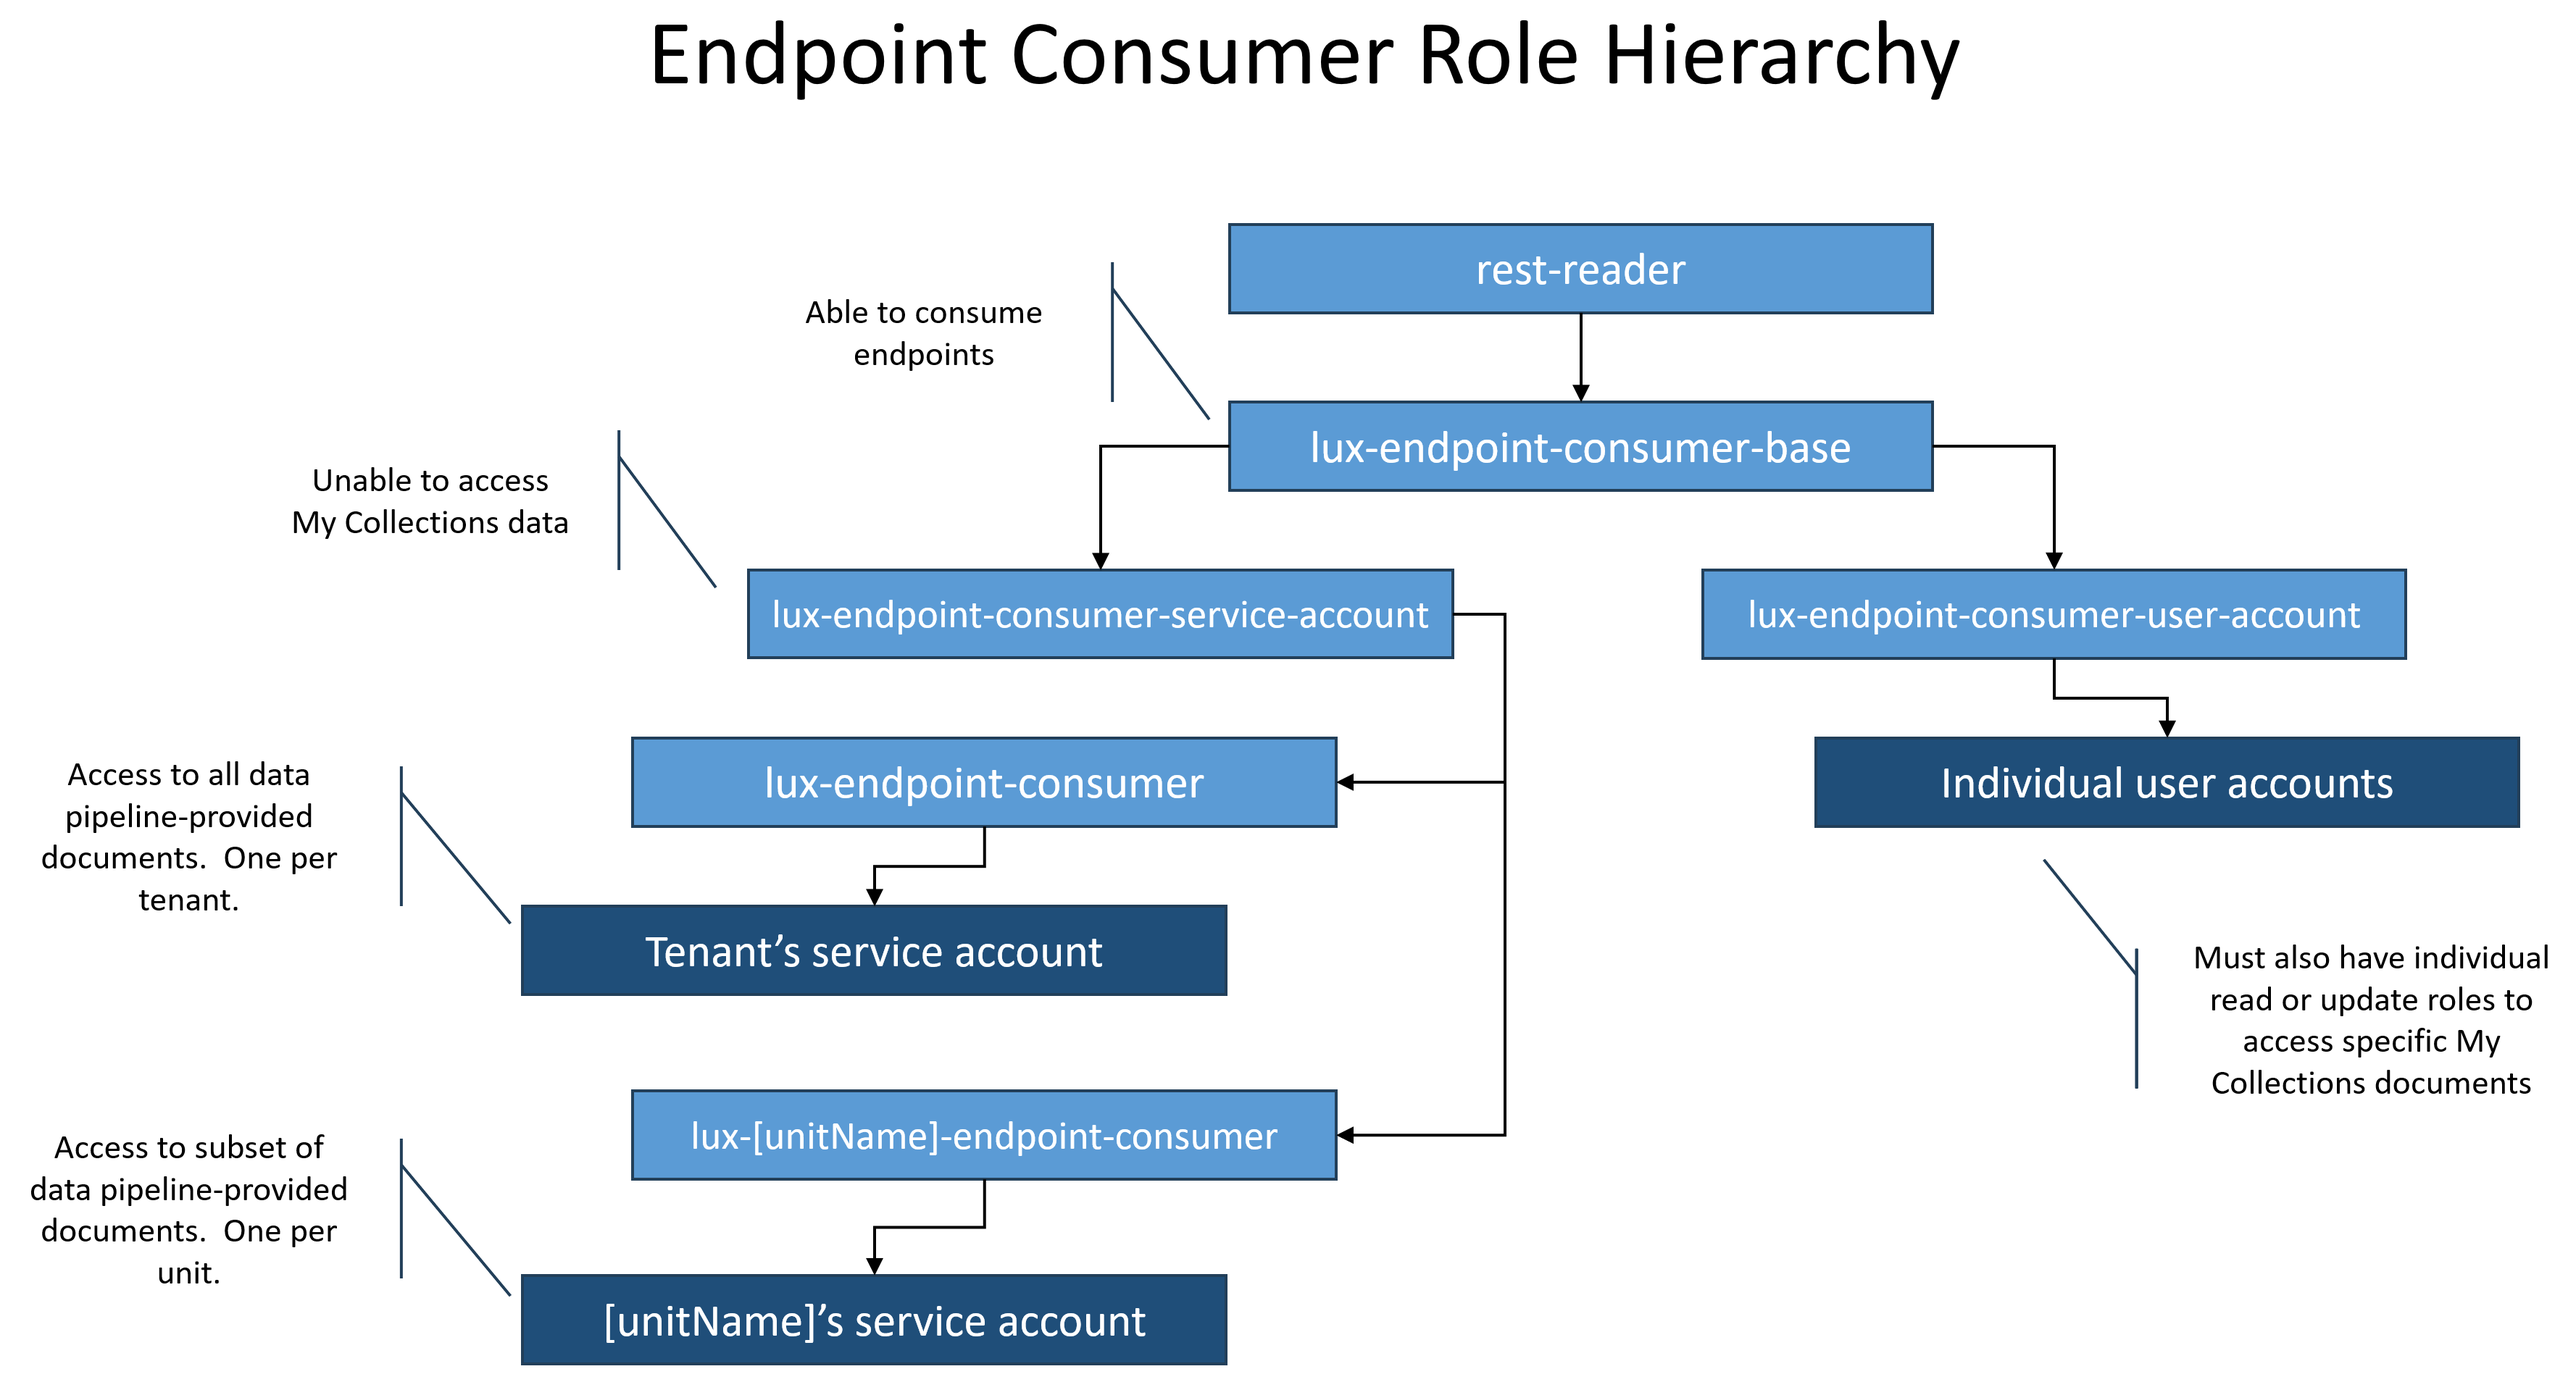
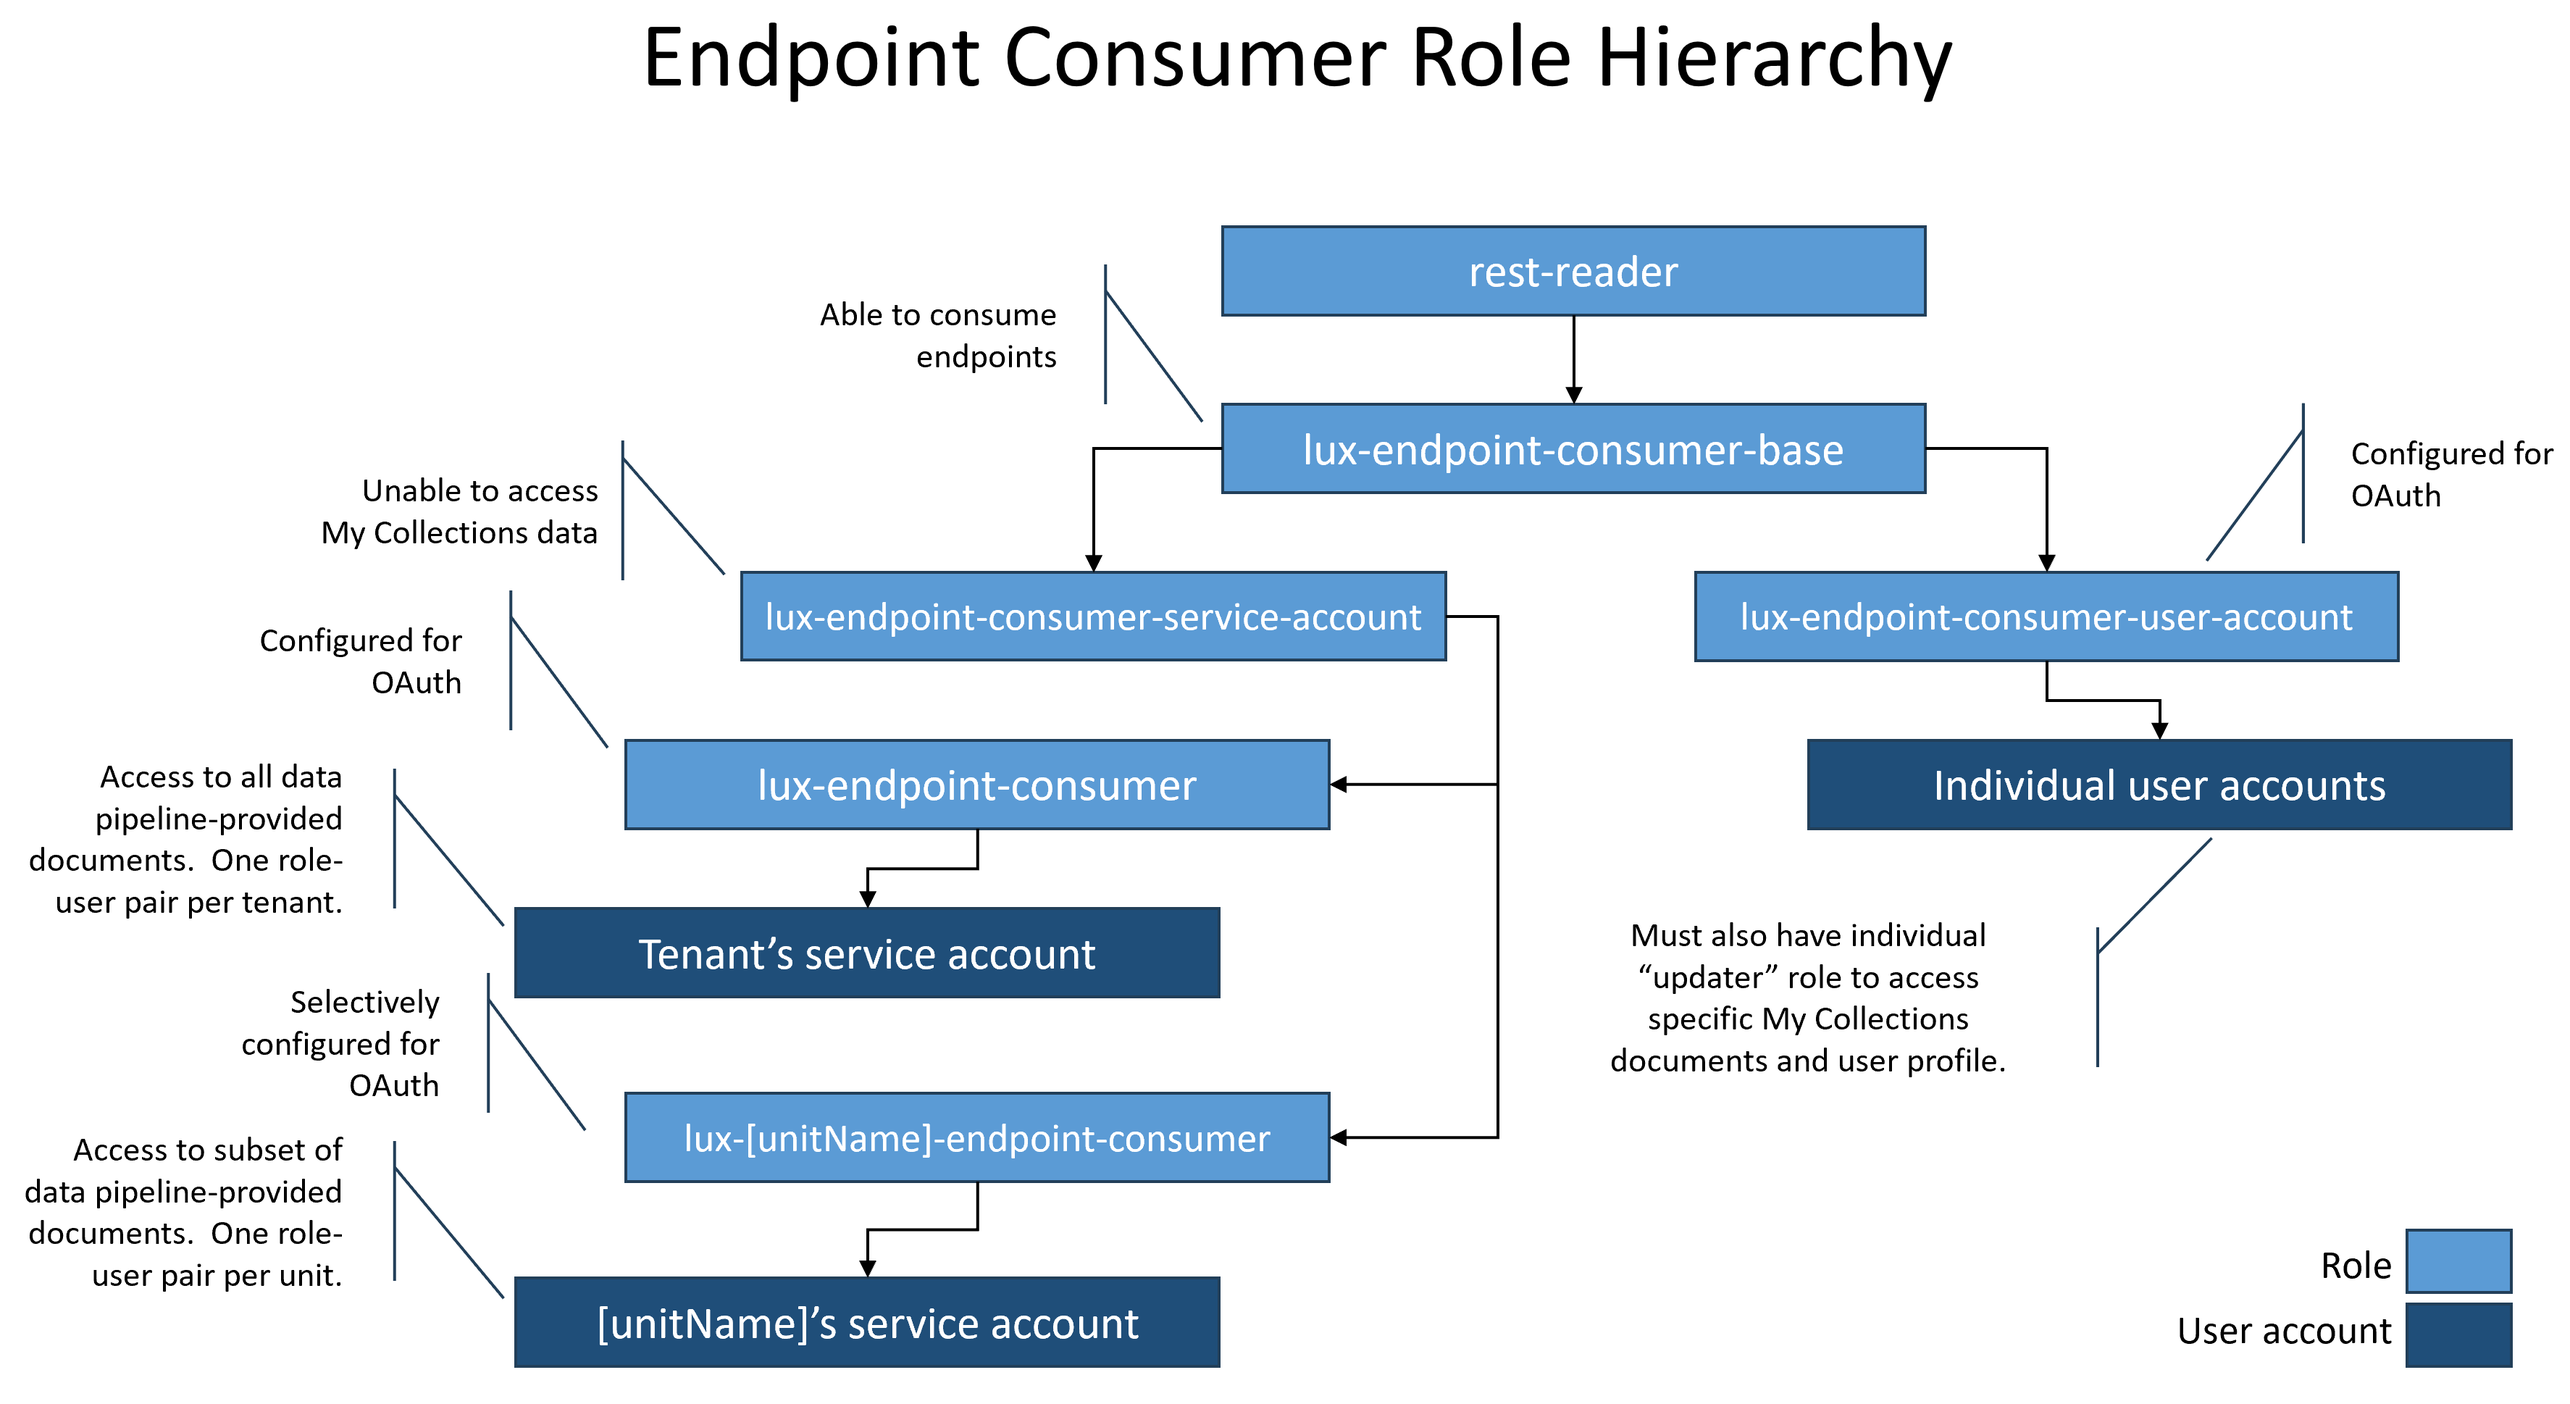
Auth&Auth-related documentation edits

diff --git a/docs/lux-backend-security-and-software.md b/docs/lux-backend-security-and-software.md
@@ -93,31 +93,37 @@ Reader role naming conventions for units, where `[alpha]` is the next available 
 
 ![Endpoint consumer role hierarchy](/docs/img/endpoint-consumer-role-hierarchy.png)
 
-The `%%mlAppName%%-endpoint-consumer-base` role ([2-endpoint-consumer-base-role.json](/src/main/ml-config/base/security/roles/2-endpoint-consumer-base-role.json)) grants the roles and execute privileges required to consume the endpoints, less those provided by [amps](#amps).
+The [%%mlAppName%%-endpoint-consumer-base](/src/main/ml-config/base/security/roles/2-endpoint-consumer-base-role.json) role grants the roles and execute privileges required to consume the endpoints, less those provided by [amps](#amps).
 
-There are two roles that directly inherit the base role to differentiate the two types of endpoint consumers:
+There are two roles that directly inherit the base role, which serve to differentiate two types of endpoint consumers:
 
-1. The `%%mlAppName%%-endpoint-consumer-user` role ([2a-endpoint-consumer-user-role.json](/src/main/ml-config/base/security/roles/2a-endpoint-consumer-user-role.json)) is to be granted to My Collections user accounts.
-2. The `%%mlAppName%%-endpoint-consumer-service-account` role ([2b-endpoint-consumer-service-account-role.json](/src/main/ml-config/base/security/roles/2b-endpoint-consumer-service-account-role.json)) is to be granted to service accounts.
+1. The [%%mlAppName%%-endpoint-consumer-user](/src/main/ml-config/base/security/roles/2a-endpoint-consumer-user-role.json) role is to be granted to My Collections *user* accounts.
+2. The [%%mlAppName%%-endpoint-consumer-service-account](/src/main/ml-config/base/security/roles/2b-endpoint-consumer-service-account-role.json) role is to be granted to *service* accounts.
 
-Primary distinctions between the endpoint consumer types:
+Primary distinctions between user and service accounts:
 
 1. Document permissions:
-    * User accounts only have access to My Collections documents. The subset thereof varies by user account.  For example, User 1 and User 2 may share access to My Fossils Collection yet User 1 may also have access to the My Paintings Collection.
+    * User accounts only have access to My Collections documents. The subset thereof varies by user account.  For example and once sharing is supported, User 1 and User 2 may share access to My Fossils Collection yet User 1 may also have access to the My Paintings Collection.
     * Service accounts only have access to documents provided by the [data pipeline](https://github.com/project-lux/data-pipeline).  The subset thereof varies by service account, or unit.  For example, the Yale Peabody Museum and Yale University Art Gallery may share the concept of fossils yet the Yale Peabody Museum service account will have access to many more fossil documents than Yale University Art Gallery's service account.
 2. Requests from a user account can have access to the same configuration and (data pipeline-provided) documents as a service account (using the `unitName` endpoint parameter), but service accounts cannot have access to a user account's documents.  Combining the two previous examples, if the same User 1 logged into LUX through Yale Peabody Museum's portal, the user would have access to their My Collection documents *and* Yale Peabody Museum's fossil documents.  Users that access LUX through Yale Peabody Museum's portal without logging in would only be able to see Yale Peabody Museum's documents.  The [backend endpoint API documentation](/docs/lux-backend-api-usage.md) identifies which endpoints accept the `unitName` parameter.
 3. Service accounts are not allowed to consume My Collection endpoints.
 
-Each tenant and unit is to have a dedicated a) service account, b) endpoint consumer role, and c) [reader role](#reader).\*  The dedicated endpoint consumer role is to inherit the base endpoint consumer role.  The tenant's endpoint consumer role is defined by [2c-tenant-endpoint-consumer-role.json](/src/main/ml-config/base/security/roles/2c-tenant-endpoint-consumer-role.json) and serves as an example.  
+Each tenant and unit is to have a dedicated a) service account, b) endpoint consumer role, and c) [reader role](#reader).\*  Dedicated endpoint consumer service account roles are to inherit [%%mlAppName%%-endpoint-consumer-service-account](/src/main/ml-config/base/security/roles/2b-endpoint-consumer-service-account-role.json).  The tenant's endpoint consumer role is defined by [%%mlAppName%%-endpoint-consumer](/src/main/ml-config/base/security/roles/2c-tenant-endpoint-consumer-role.json) and serves as an example.  
 
-Unit endpoint consumer roles may also be configured within [/src/main/ml-config/base/security/roles](/src/main/ml-config/base/security/roles/). Endpoint consumer role naming conventions for units, where `[alpha]` and `[unit]` match that of the reader role:
+Unit endpoint consumer roles may also be configured within [/src/main/ml-config/base/security/roles](/src/main/ml-config/base/security/roles/). Endpoint consumer naming conventions for units, where `[alpha]` and `[unit]` match that of the reader role:
 
 * File names: `2[alpha]-[unit]-endpoint-consumer-role.json`
 * Role names: `%%mlAppName%%-[unit]-endpoint-consumer`
 
-For internal security environments, the project offers tenant and unit endpoint consumer service accounts.  These are configured within [/src/main/ml-config/base-unsecured/security/users](/src/main/ml-config/base-unsecured/security/users).  To deploy, set the `endpointConsumerPassword` in the properties file (It is not an encrypted password.), add [/src/main/ml-config/base-unsecured](/src/main/ml-config/base-unsecured) to the `mlConfigPaths` property value, and run the `mlDeployUsers` task or a higher one.  
+A subset of roles is configured with external group names, in support of OAuth:
 
-Developers are encouraged to test endpoints using an account that has one of these roles.
+* [%%mlAppName%%-endpoint-consumer-user](/src/main/ml-config/base/security/roles/2a-endpoint-consumer-user-role.json) is configured to the "user" group, thereby allowing any authenticated My Collections user to consume endpoints.
+* The tenant owner, [%%mlAppName%%-endpoint-consumer](/src/main/ml-config/base/security/roles/2c-tenant-endpoint-consumer-role.json), is configured to the "my-collections-service" group.
+* Units with unit portals also have their endpoint consumer service account role configured to the "my-collections-service" group.  This includes [%%mlAppName%%-ypm-endpoint-consumer](/src/main/ml-config/base/security/roles/2d-ypm-endpoint-consumer-role.json).
+
+Intended for local developer environments, the project offers tenant and unit endpoint consumer service accounts.  These are configured within [/src/main/ml-config/base-unsecured/security/users](/src/main/ml-config/base-unsecured/security/users).  To deploy, set the `endpointConsumerPassword` in the properties file (It is not an encrypted password.), add [/src/main/ml-config/base-unsecured](/src/main/ml-config/base-unsecured) to the `mlConfigPaths` property value, and run the `mlDeployUsers` task or a higher one.  
+
+Developers are encouraged to test endpoints using endpoint consumer user accounts and endpoint consumer service accounts.
 
 \* See the [Applicable Configuration](#applicable-configuration) section for an additional requirement to provide a unit a service account.
 
@@ -133,7 +139,7 @@ The [%%mlAppName%%-writer](/src/main/ml-config/base/security/roles/4-tenant-writ
 
 The [%%mlAppName%%-deployer](/src/main/ml-config/base/security/roles/5-tenant-deployer-role.json) role builds upon the [%%mlAppName%%-writer](/src/main/ml-config/base/security/roles/4-tenant-writer-role.json) role by also being able to run the `performBaseDeployment` task.  This role should not be able to run the `mlDeploySecurity` task or lower level security tasks, specifically creating user accounts, changing a user account's roles and privileges, and changing a role's inherited roles and privileges.
 
-For internal security environments, the project offers the [%%mlAppName%%-deployer](/src/main/ml-config/base-unsecured/security/users/tenant-deployer-user.json) *user account*, which is granted the deployer role.  To deploy, set the `deployerPassword` in the properties file (It is not an encrypted password.), add [/src/main/ml-config/base-unsecured](/src/main/ml-config/base-unsecured) to the `mlConfigPaths` property value, and run the `mlDeployUsers` task or a higher one.
+Intended for local developer environments, the project offers the [%%mlAppName%%-deployer](/src/main/ml-config/base-unsecured/security/users/tenant-deployer-user.json) *user account*, which is granted the deployer role.  To deploy, set the `deployerPassword` in the properties file (It is not an encrypted password.), add [/src/main/ml-config/base-unsecured](/src/main/ml-config/base-unsecured) to the `mlConfigPaths` property value, and run the `mlDeployUsers` task or a higher one.
 
 ### My Collections Data Updater
 

diff --git a/docs/lux-backend-api-usage.md b/docs/lux-backend-api-usage.md
@@ -76,7 +76,7 @@ It is possible that LUX backend consumers also consume MarkLogic native endpoint
 
 Every LUX backend endpoint request must be authenticated.  Originally, there was a single way: use MarkLogic's internal security and an application server configured with the DIGEST authentication scheme.  The My Collections feature has us switching to OAuth, enabling both service accounts and *individual users* the ability to consume the endpoints.  There will be a period when both means are available in some pre-production environments.  The production environment will continue to use internal security until we're ready to switch all environments to external security.
 
-In both cases, the user account must be associated to one of the endpoint consumer roles. These provide sufficient privileges to consume all of LUX's backend endpoints. Document permissions may restrict the endpoint consumer to a subset of data and unit-specific configurations. The tenant's endpoint consumer service account has access to all documents. Individual unit endpoint service accounts may have access to overlapping subsets of data. Applicable endpoints offer the `unitName` parameter to specify the unit when the requesting user is a user, as opposed to a service account. For more information on tenants, unit portals, and roles, see [LUX Backend Security and Software](/docs/lux-backend-security-and-software.md).
+In both cases, the user account must be associated to one of the endpoint consumer roles. These provide sufficient privileges to consume all of LUX's backend endpoints. Document permissions may restrict the endpoint consumer to a subset of data. The tenant's endpoint consumer service account has access to all documents. Individual unit endpoint service accounts may have access to overlapping subsets of data. Applicable endpoints offer the `unitName` parameter to specify the unit when the requesting user is a user, as opposed to a service account; in this context, the unit name determines which unit's documents to make accessible to the request and which configuration files to apply. For more information on tenants, unit portals, and roles, see [LUX Backend Security and Software](/docs/lux-backend-security-and-software.md).
 
 There is a condition unique to the first time a *user* logs into an environment: the receiving endpoint will get as far as it can and will then throw a `ServerConfigurationChangedError` with a status response code of 503, indicating the endpoint consumer may immediately retry the request. When the [Generated Data Service Interfaces](#generated-data-service-interfaces) are part of the stack, the retry will be automatic. Those that do not use the [Generated Data Service Interfaces](#generated-data-service-interfaces) will need to account for this condition on their own. The retry is necessary to grant the user all the roles they require; they cannot be granted during the original request. This does *not* apply to a user that does not log in as they are then using a service account.
 
